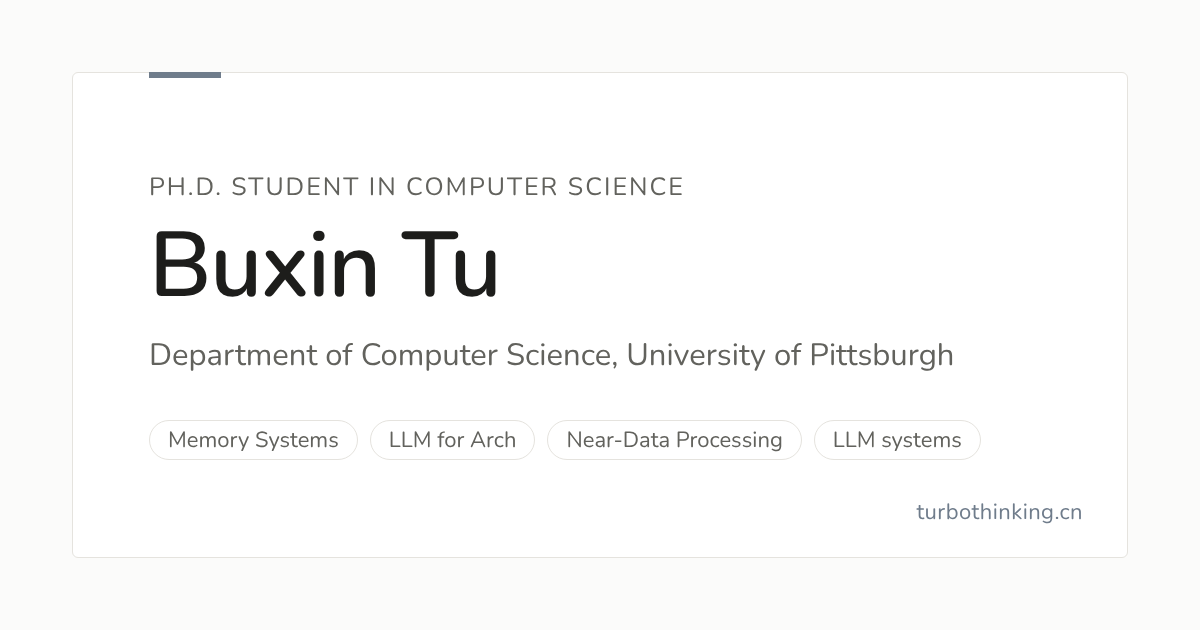
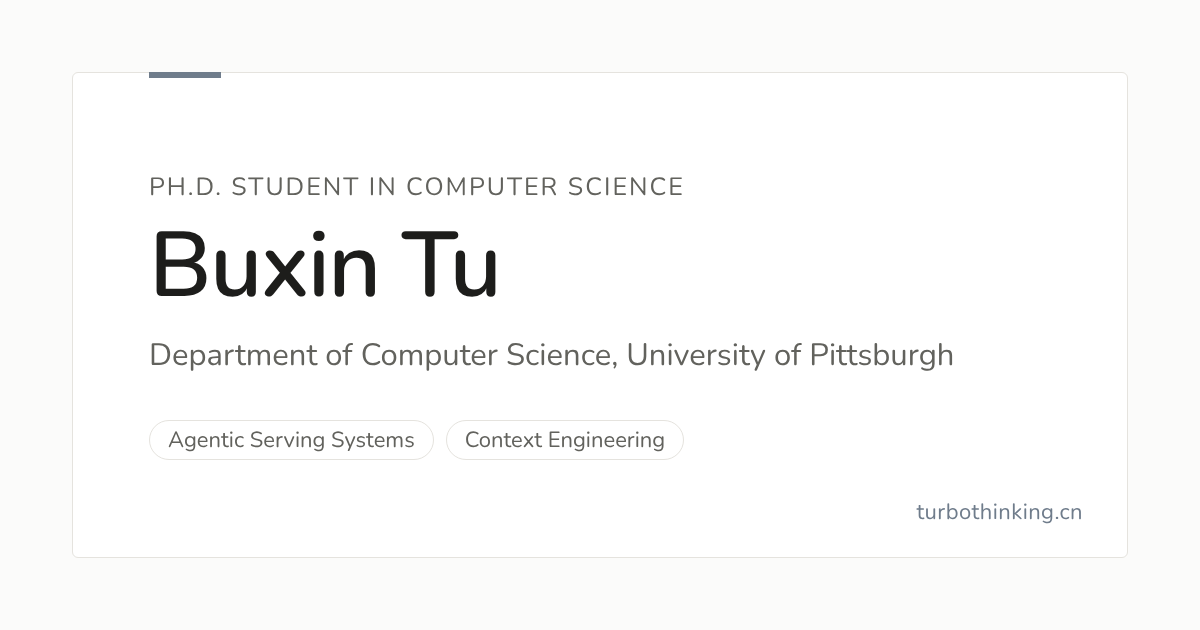
Update research focus to agentic serving and context engineering
- About: lead with the current Ph.D. focus (LLM systems, especially
  agentic serving systems and context engineering) and move the
  near-data processing work under the M.S. background.
- Research interests and the link-preview card now list Agentic
  Serving Systems and Context Engineering.

Claude-Session: https://claude.ai/code/session_0121bAi3qDqbvqJCRHrtAUQF

Changed region(s): [[0.1233, 0.6635, 0.6475, 0.7238], [0.6783, 0.6635, 0.8017, 0.7238]]

diff --git a/index.md b/index.md
@@ -4,8 +4,8 @@ permalink: /
 ---
 
 I am a Ph.D. student in Computer Science at the University of Pittsburgh (**Pitt**), advised by **Prof. Xulong Tang**.
-Before that, I received my M.S. from the University of Science and Technology of China (**USTC**), where I was advised by **Prof. Hong An**.
-My research has focused on computer architecture, including Hardware/Software co-design for HPC workloads and memory systems.
+My current research focuses on LLM systems, especially **agentic serving systems** and **context engineering**.
 
-In particular, I have been working on near-data processing systems and address translation mechanisms, including address translation designs for NDP architectures and NDP-based co-designs for accelerating density functional theory workloads.
-Looking ahead, I am exploring LLM systems and LLM for computer architecture, including how LLM-based methods can support architecture research in practice.
+Before that, I received my M.S. from the University of Science and Technology of China (**USTC**), where I was advised by **Prof. Hong An**.
+My research there focused on computer architecture, including Hardware/Software co-design for HPC workloads and memory systems.
+In particular, I worked on near-data processing systems and address translation mechanisms, including address translation designs for NDP architectures and NDP-based co-designs for accelerating density functional theory workloads.

diff --git a/README.md b/README.md
@@ -23,7 +23,7 @@ A few conventions:
 - The email address is displayed as `name_AT_domain` and is deliberately not a `mailto:` link, so the plain address never appears on the site.
 - Sections are switched on and off under `show:` in `_config.yml`. For `projects` and `teaching` the switch also decides whether the page is built at all (see `_plugins/feature_flags.rb`).
 - Visitor statistics are collected by GoatCounter and viewed at https://buxintu.goatcounter.com. The site code is `goatcounter` in `_config.yml`, and the script is only included in production builds, so local previews are not counted.
-- `assets/images/og-card.png` is the 1200×630 preview image shown when a link to the site is shared. It is a static image, so regenerate it whenever the name, position, or affiliation changes.
+- `assets/images/og-card.png` is the 1200×630 preview image shown when a link to the site is shared. It is a static image, so regenerate it whenever the name, position, affiliation, or research interests change.
 
 ### Local preview with Docker (recommended)
 
